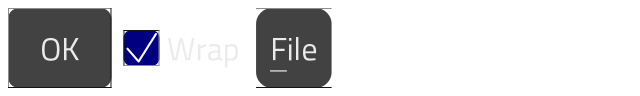
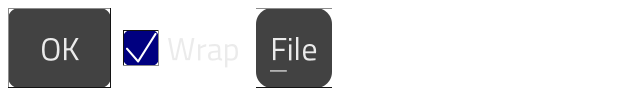
fix(layout): round component bounds to whole device pixels
Layout works in device pixels but let origins land on fractions, so the
looks' pixel snapping and 1px lines smeared over two pixels. In a selected
table row every cell half-covered the shared pixel at each column edge and
the bar showed a light seam in every engine. Like WPF/Avalonia layout
rounding, SetBounds and Arrange now round each edge (neighbours that share
an edge still share it), table column edges are whole pixels, and the base
column guide stops at a selected row so the selection reads as one bar.

Content heights stay fractional (text metrics), so an overflow under one
pixel no longer brings up a scroll bar: MaxScroll treats it as fitting.

Changed region(s): [[0.1875, 0.3125, 0.25, 0.6875], [0.1562, 0.8438, 0.1875, 0.9062], [0.1562, 0.0938, 0.1875, 0.1562]]

diff --git a/widgets/table_seam_test.go b/widgets/table_seam_test.go
@@ -1,0 +1,71 @@
+package widgets
+
+import (
+	"fmt"
+	"testing"
+
+	"github.com/codemodify/paintengine2d"
+	"github.com/codemodify/uitoolkit/style"
+)
+
+// A selected row is one unbroken bar. The layout may hand the table a
+// fractional origin and the columns fractional widths; cells that meet on a
+// fraction each half-cover the shared pixel and leave a light seam at every
+// column edge (it showed in every engine in the gallery).
+func TestTableSelectedRowHasNoColumnSeams(t *testing.T) {
+	for _, name := range []string{"luna", "aero", "win10", "win95"} {
+		pack, ok := style.LoadTheme(name)
+		if !ok {
+			t.Fatalf("no %s pack", name)
+		}
+		tv := NewTableView([]TableColumn{
+			{Title: "Subject", Width: 101.5},
+			{Title: "From", Width: 70.25},
+			{Title: "Date", Width: 60},
+		}, 20, func(row, col int) string { return fmt.Sprintf("r%d c%d", row, col) }, nil)
+		tv.SetSelectedRows([]int{1})
+		tv.Selected = 1
+		const w, h = 262, 120
+		root := NewColumn(tv)
+		root.SetLook(pack.Look())
+		root.SetHost(&host{})
+		root.Arrange(paintengine2d.XYWH(0, 0, w, h))
+		for _, ox := range []float32{0.37, 0.5} {
+			tv.Arrange(paintengine2d.XYWH(ox, 0.5, w-2, h-1))
+			if o := tv.Bounds().Min; o.X != float32(int(o.X)) || o.Y != float32(int(o.Y)) {
+				t.Fatalf("%s: bounds origin %v is not on the pixel grid", name, o)
+			}
+			for path, img := range map[string]*paintengine2d.Image{
+				"scene":     scenePaint(root, w, h),
+				"immediate": immediatePaint(root, w, h),
+			} {
+				r := fromView(tv.rowRect(1), tv.frame())
+				y := int(tv.Bounds().Min.Y + r.Min.Y + r.Dy()/2)
+				x := tv.Bounds().Min.X + tv.frame().Left
+				widths := tv.colWidths()
+				for i := 0; i < len(widths)-1; i++ {
+					x += widths[i]
+					// The pixels either side of the edge and the edge
+					// pixel itself: one colour across the bar.
+					xi := int(x)
+					ar, ag, ab, _ := img.PremulAt(xi-3, y)
+					for xx := xi - 2; xx <= xi+2; xx++ {
+						br, bg, bb, _ := img.PremulAt(xx, y)
+						if d := absInt(int(ar)-int(br)) + absInt(int(ag)-int(bg)) + absInt(int(ab)-int(bb)); d > 6 {
+							t.Errorf("%s %s ox=%.2f: seam at x=%d (column edge %.2f): %d,%d,%d vs %d,%d,%d",
+								name, path, ox, xx, x, br, bg, bb, ar, ag, ab)
+							break
+						}
+					}
+				}
+			}
+		}
+	}
+}
+
+func absInt(v int) int {
+	if v < 0 {
+		return -v
+	}
+	return v
+}

diff --git a/widget/base.go b/widget/base.go
@@ -1,6 +1,7 @@
 package widget
 
 import (
+	"math"
 	"sync/atomic"
 
 	"github.com/codemodify/paintengine2d"
@@ -54,7 +55,7 @@ func (b *Base) Parent() Component              { return b.parent }
 func (b *Base) setParent(p Component)          { b.parent = p }
 func (b *Base) Children() []Component          { return b.children }
 func (b *Base) Bounds() paintengine2d.Rect     { return b.bounds }
-func (b *Base) SetBounds(r paintengine2d.Rect) { b.bounds = r.Canon() }
+func (b *Base) SetBounds(r paintengine2d.Rect) { b.bounds = PixelRect(r.Canon()) }
 func (b *Base) Visible() bool                  { return b.visible }
 func (b *Base) Enabled() bool                  { return b.enabled }
 func (b *Base) WantsFocus() bool               { return b.focus }
@@ -159,7 +160,21 @@ func (b *Base) Measure(c layout.Constraints) paintengine2d.Point {
 	return c.Constrain(paintengine2d.Pt(0, 0))
 }
 
-func (b *Base) Arrange(r paintengine2d.Rect) { b.bounds = r.Canon() }
+func (b *Base) Arrange(r paintengine2d.Rect) { b.bounds = PixelRect(r.Canon()) }
+
+// PixelRect rounds r's edges to whole pixels. Layout works in device pixels
+// and every component's bounds go through it (layout rounding, as in WPF,
+// Avalonia and WinUI): each origin then sits on the pixel grid, so a look's
+// pixel snapping and its 1px lines land on real pixels instead of smearing
+// over two, and neighbours that share an edge still share it.
+func PixelRect(r paintengine2d.Rect) paintengine2d.Rect {
+	return paintengine2d.Rect{
+		Min: paintengine2d.Pt(roundPx(r.Min.X), roundPx(r.Min.Y)),
+		Max: paintengine2d.Pt(roundPx(r.Max.X), roundPx(r.Max.Y)),
+	}
+}
+
+func roundPx(v float32) float32 { return float32(math.Floor(float64(v) + 0.5)) }
 
 func (b *Base) Paint(ctx *paintengine2d.Context) { _ = ctx }
 

diff --git a/style/look.go b/style/look.go
@@ -1234,7 +1234,11 @@ func (l *Classic) baseDrawTableCell(ctx *paintengine2d.Context, b paintengine2d.
 	ctx.ClipRect(b.Inset(1))
 	f.Draw(ctx, label, paintengine2d.Pt(x, ty), fg)
 	ctx.Restore()
-	ctx.DrawRect(paintengine2d.XYWH(b.Max.X-1, b.Min.Y, 1, b.Dy()), paintengine2d.Fill(p.Divider.WithAlpha(0.55)))
+	// The column guide stops at a selected row: the selection reads as one
+	// bar across the row (Explorer's details view, Finder's list).
+	if !st.Checked() {
+		ctx.DrawRect(paintengine2d.XYWH(b.Max.X-1, b.Min.Y, 1, b.Dy()), paintengine2d.Fill(p.Divider.WithAlpha(0.55)))
+	}
 }
 
 // tableCellPad keeps the default 8px inset unless the full label already

diff --git a/widgets/table.go b/widgets/table.go
@@ -1,6 +1,7 @@
 package widgets
 
 import (
+	"math"
 	"time"
 
 	"github.com/codemodify/paintengine2d"
@@ -318,6 +319,15 @@ func (t *TableView) colWidths() []float32 {
 		if out[give] < 1 {
 			out[give] = 1
 		}
+	}
+	// Whole-pixel column edges: two cells meeting on a fraction would each
+	// half-cover the shared pixel, and a selected row would show a seam.
+	var acc, prev float32
+	for i := range out {
+		acc += out[i]
+		edge := float32(math.Floor(float64(acc) + 0.5))
+		out[i] = edge - prev
+		prev = edge
 	}
 	return out
 }

diff --git a/layout/scroll.go b/layout/scroll.go
@@ -1,9 +1,13 @@
 package layout
 
 // MaxScroll is the largest legal offset: max(0, content − viewport).
+//
+// Components sit on whole pixels while text makes content heights
+// fractional, so an overflow under one pixel has nothing to reveal: it
+// counts as fitting and brings up no scroll bar.
 func MaxScroll(content, viewport float32) float32 {
 	m := content - viewport
-	if m < 0 {
+	if m < 1 {
 		return 0
 	}
 	return m

diff --git a/internal/uitest/golden_test.go b/internal/uitest/golden_test.go
@@ -8,8 +8,8 @@ import (
 // Locked hashes for the chrome strip. Recomputed when UITK_UPDATE_GOLDEN=1
 // prints the new values — do not silently accept a dirty-rect glyph change.
 var chromeStripHash = map[float32]uint64{
-	1: 0x91d38ad6d5d37097,
-	2: 0x94fb839b818360af,
+	1: 0xfde69ea87b60058,
+	2: 0x39c1284b414d83e1,
 }
 
 func TestChromeStripGolden(t *testing.T) {

diff --git a/layout/scroll_test.go b/layout/scroll_test.go
@@ -6,6 +6,9 @@ func TestClampScrollStopsAtEnd(t *testing.T) {
 	if got := MaxScroll(100, 40); got != 60 {
 		t.Fatalf("max %v", got)
 	}
+	if got := MaxScroll(40.4, 40); got != 0 {
+		t.Fatalf("sub-pixel overflow scrolls %v", got)
+	}
 	if got := MaxScroll(20, 40); got != 0 {
 		t.Fatalf("short content max %v", got)
 	}
